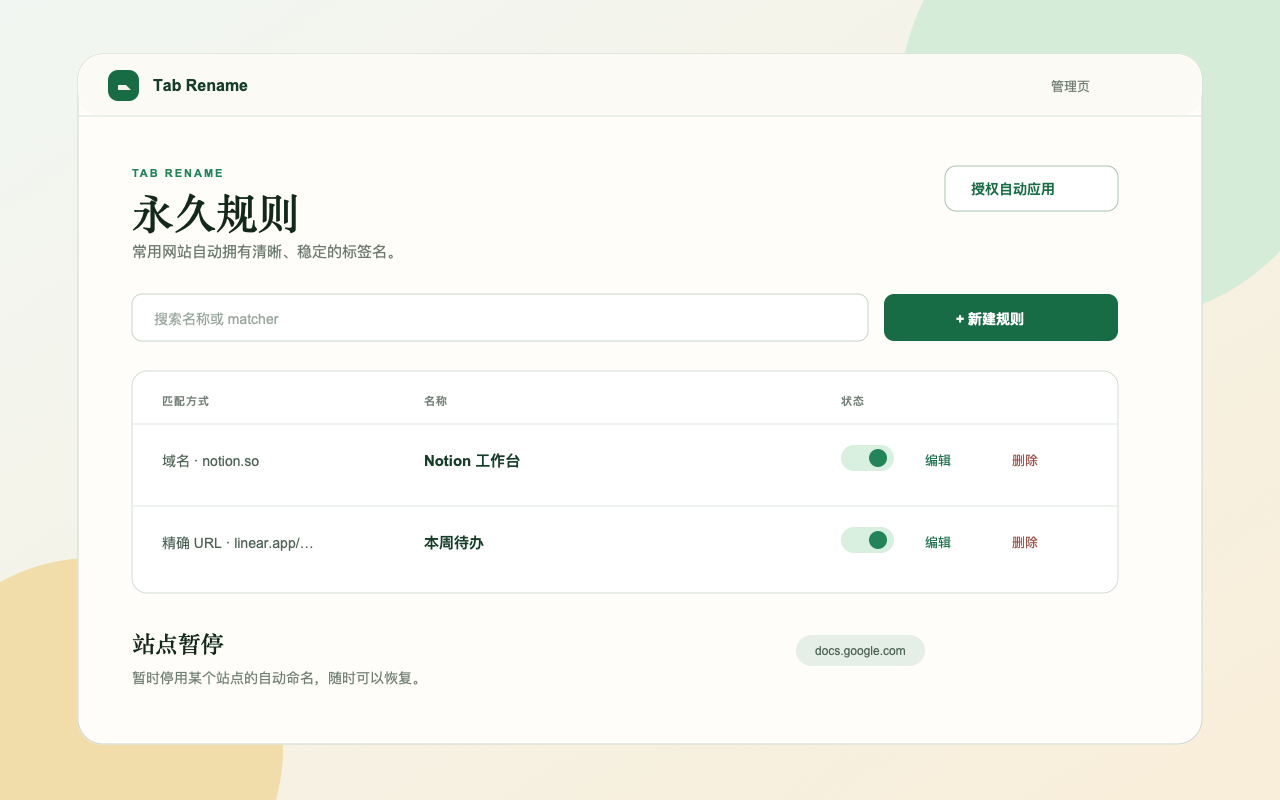
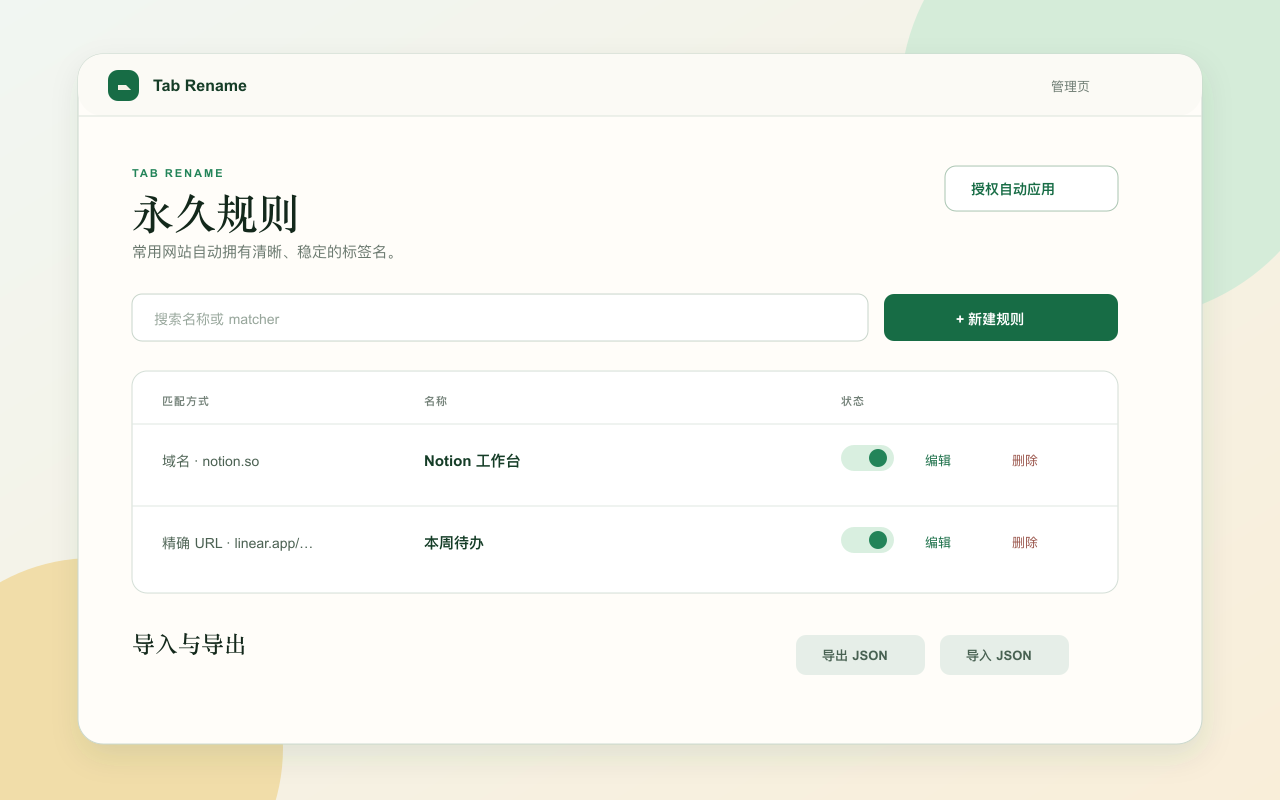
prepare store listing for v0.1.0
Rename to Tab Renamer, rewrite descriptions to highlight three
matching modes and local-first design. Add uninstall survey URL.
Update screenshot-02 to remove stale site-pause section.
Include release zip.

diff --git a/src/background/index.ts b/src/background/index.ts
@@ -32,6 +32,7 @@ async function openRenameOverlay(tabId?: number): Promise<void> {
 chrome.runtime.onInstalled.addListener((details) => {
   chrome.contextMenus.removeAll().then(() => chrome.contextMenus.create({ id: MENU_ID, title: "重命名此标签页…", contexts: ["page"] }));
   if (details.reason === "install") chrome.tabs.create({ url: chrome.runtime.getURL("onboarding.html") });
+  chrome.runtime.setUninstallURL("https://tally.so/r/obJD4x");
   void syncAutomaticContentScript();
 });
 chrome.runtime.onStartup.addListener(() => { void syncAutomaticContentScript(); });

diff --git a/store-assets/STORE_LISTING_zh-CN.md b/store-assets/STORE_LISTING_zh-CN.md
@@ -6,25 +6,38 @@
 
 ## 商品详情
 
-**名称**：Tab Rename
+**名称**：Tab Renamer - 免费标签页重命名工具
 
 **简短说明**（Manifest，少于 132 个字符）
 
-本地优先、可预测的标签页重命名工具
+一键重命名浏览器标签页。支持精确 URL、URL 正则和域名三种匹配规则，数据仅保存在本地。
 
 **详细说明**
 
-Tab Rename 让杂乱的浏览器标签变成一眼就能认出的名字。
+Tab Renamer 帮助你整理杂乱的浏览器标签页——给每个标签一个一目了然的名称。
 
-在普通网页上按快捷键或点击浏览器工具栏图标，即可打开全屏命名界面。你可以只为当前页面命名、让名称跟随当前标签会话，或为精确 URL 和域名创建长期规则。当前页面和当前标签的命名始终优先，规则结果清晰可预测。
+在普通网页上按快捷键或点击工具栏图标，即可在页面内打开重命名界面。根据需求选择保存范围：
 
-- 在当前网页直接打开沉浸式重命名界面，按 Enter 保存、按 Esc 关闭。
-- 支持当前页面、当前标签和永久规则三种保存范围。
-- 为精确 URL 或整个域名建立规则；可搜索、编辑、启停、导入和导出规则。
-- 动态网页、刷新和导航后仍会按适用范围保留名称。
-- 只在本机运行：不发送网络请求、不使用遥测、不上传页面标题、网址或你的设置。
+• 仅当前页面 —— 导航到其他页面后名称自动消失。
+• 当前标签会话 —— 刷新、页内跳转后名称仍保留，关闭标签后清除。
+• 永久规则 —— 保存在本地，每次打开匹配页面时自动应用。
 
-当你明确授权网站访问权限后，永久规则可以在导航和已打开的匹配页面上自动应用。你可以随时在浏览器扩展设置中撤销该权限。
+三种专业匹配模式，让规则精准覆盖你的场景：
+
+• 精确 URL —— 只匹配一个完整地址，适合固定页面。
+• URL 正则 —— 使用 {1} 占位符或正则捕获组匹配动态 URL，并将捕获值自动填入标签名称。
+• 域名 —— 为某个域名下的所有页面统一命名。
+
+规则遵循固定优先级（精确 URL > URL 正则 > 域名），当前页面和标签会话命名始终优先于规则。命名结果清晰可预测，不会出现闪烁。
+
+更多特性：
+- 管理页面集中管理所有规则：搜索、编辑、启用、禁用、删除、导入和导出。
+- 键盘优先设计：Enter 保存、Esc 关闭、快捷键打开。
+- 右键菜单入口，快速操作。
+- 数据只在本机运行——不发送网络请求、不使用遥测、不上传任何数据。
+- 完全免费，无广告，无内购。
+
+当你明确授权网站访问权限后，永久规则可以在导航后自动应用。你可以随时在浏览器扩展设置中撤销该权限。
 
 受 Chrome 平台限制，`chrome://`、Chrome Web Store、新标签页、其他扩展页面等受保护页面无法修改；文件 URL 和 PDF 的可用性取决于浏览器设置与查看器实现。
 
@@ -32,15 +45,15 @@ Tab Rename 让杂乱的浏览器标签变成一眼就能认出的名字。
 
 **单一用途说明**
 
-帮助用户为浏览器标签页设置易识别的名称，并可在用户选择的范围内保存这些名称或匹配规则。
+帮助用户为浏览器标签页设置易识别的名称，通过灵活的 URL 匹配规则在用户选择的范围内保存和应用命名。
 
 **数据使用**
 
-选择“不收集用户数据”（No user data collected）。扩展会在浏览器本地处理当前标签页标题和网址；它们不会传输给开发者或第三方。
+选择"不收集用户数据"（No user data collected）。扩展会在浏览器本地处理当前标签页标题和网址；它们不会传输给开发者或第三方。
 
 **远程代码**
 
-选择“否，我不使用远程代码”（No, I am not using remote code）。扩展不加载、下载或执行远程代码。
+选择"否，我不使用远程代码"（No, I am not using remote code）。扩展不加载、下载或执行远程代码。
 
 **隐私政策 URL**
 
@@ -60,19 +73,19 @@ Tab Rename 让杂乱的浏览器标签变成一眼就能认出的名字。
 | --- | --- |
 | `activeTab` | 仅当用户点击扩展图标、使用快捷键或网页右键入口时，临时访问当前选中的标签页，以显示重命名界面并修改该页标题。 |
 | `scripting` | 仅在用户主动操作当前标签页时，按需注入本地标题守护与重命名界面脚本。不会注入受保护页面。 |
-| `storage` | 在浏览器本地保存永久规则、暂停站点设置及当前标签会话命名；不向任何服务器发送这些数据。 |
-| `contextMenus` | 在普通网页的右键菜单中提供“重命名当前标签页”入口。 |
+| `storage` | 在浏览器本地保存永久规则及当前标签会话命名；不向任何服务器发送这些数据。 |
+| `contextMenus` | 在普通网页的右键菜单中提供"重命名当前标签页"入口。 |
 | `tabs` | 读取标签页标识、网址和标题，以便将本地规则应用到匹配标签、处理导航与关闭标签，并展示规则状态；这些信息不会离开浏览器。 |
-| `http://*/*`（可选） | 仅在用户明确启用“授权自动应用”后使用，使永久规则能在 HTTP 网站导航后自动应用。 |
-| `https://*/*`（可选） | 仅在用户明确启用“授权自动应用”后使用，使永久规则能在 HTTPS 网站导航后自动应用。 |
+| `http://*/*`（可选） | 仅在用户明确启用"授权自动应用"后使用，使永久规则能在 HTTP 网站导航后自动应用。 |
+| `https://*/*`（可选） | 仅在用户明确启用"授权自动应用"后使用，使永久规则能在 HTTPS 网站导航后自动应用。 |
 
 ## 审核员测试说明（Test instructions）
 
 1. 安装扩展后，打开任意普通 `https://example.com` 页面。
-2. 点击工具栏中的 Tab Rename 图标；页面中应出现命名界面。输入“示例标签”，选择“只保留在当前标签”，按 Enter。浏览器标签标题应更新为“示例标签”。
+2. 点击工具栏中的 Tab Renamer 图标；页面中应出现命名界面。输入"示例标签"，选择"只保留在当前标签"，按 Enter。浏览器标签标题应更新为"示例标签"。
 3. 刷新页面；当前标签会话名称应仍然显示。关闭该标签后，该会话命名会自动清除。
-4. 打开扩展的“管理”页，新建一条域名规则：匹配 `example.com`，名称为“Example”。回到 `https://example.com` 并主动打开扩展，规则应可应用。
-5. 在管理页点击“授权自动应用”，在 Chrome 权限提示中允许后，永久规则可在用户已授权网站的导航后自动应用。拒绝授权不会影响手动重命名。
+4. 打开扩展的"管理"页，新建一条域名规则：匹配 `example.com`，名称为"Example"。回到 `https://example.com` 并主动打开扩展，规则应可应用。
+5. 在管理页点击"授权自动应用"，在 Chrome 权限提示中允许后，永久规则可在用户已授权网站的导航后自动应用。拒绝授权不会影响手动重命名。
 6. 打开 `chrome://settings` 或 Chrome Web Store；扩展应提示这是浏览器受保护页面，且不会修改页面。
 
 无需账号、付款方式、测试账号或外部服务。

diff --git a/store-assets/STORE_LISTING_en.md b/store-assets/STORE_LISTING_en.md
@@ -1,28 +1,41 @@
 # Chrome Web Store listing copy (English)
 
-**Name:** Tab Rename  
+**Name:** Tab Renamer - Free Tab Title Editor  
 **Category:** Productivity  
-**Short description:** A local-first, predictable tab renaming tool
+**Short description:** Rename any browser tab instantly. Supports exact URL, URL pattern, and domain matching rules. Local-first, no data collected.
 
 ## Detailed description
 
-Tab Rename turns a crowded browser into tabs you can recognize at a glance.
+Tab Renamer helps you organize a crowded browser by giving each tab a name you can recognize at a glance.
 
-Open the full-page naming interface on any ordinary webpage with a keyboard shortcut or the toolbar icon. Name only the current page, keep a name for the current tab session, or create lasting rules for an exact URL or a domain. Page and tab-session names always take precedence, so the result stays predictable.
+Press a keyboard shortcut or click the toolbar icon on any webpage to open an inline renaming interface. Choose the scope that fits your workflow:
 
-- Rename a tab directly on its page. Press Enter to save and Esc to close.
-- Choose page-only, tab-session, or permanent-rule scope.
-- Create, search, edit, pause, import, and export exact-URL and domain rules.
-- Keep applicable names across dynamic page changes, reloads, and navigation.
-- Local-first by design: no network requests, telemetry, or uploads of page titles, URLs, or settings.
+• Page-only — the name disappears when you navigate away.
+• Tab session — the name sticks through reloads and in-page navigation until you close the tab.
+• Permanent rule — saved locally and reapplied every time a matching page opens.
 
-If you explicitly grant site access, permanent rules can apply automatically after navigation and on already open matching pages. You can revoke that access at any time in browser extension settings.
+Three professional matching modes let you create precise rules:
 
-Chrome-protected pages such as `chrome://`, the Chrome Web Store, new-tab pages, and other extension pages cannot be modified. File URLs and PDFs depend on browser settings and the viewer implementation.
+• Exact URL — targets a single page by its full address.
+• URL pattern — uses {1} placeholders or regex capture groups to match dynamic URLs and insert captured values into the tab name.
+• Domain — applies one name to every page under a hostname.
+
+Rules follow a fixed priority (exact URL > URL pattern > domain), and page or tab-session names always override rules. The result is predictable and never flickers.
+
+More features:
+- Manage all rules in a dedicated options page: search, edit, enable, disable, delete, import, and export.
+- Keyboard-first design: Enter to save, Esc to close, keyboard shortcut to open.
+- Context menu entry for quick access.
+- Data stays on your machine — no network requests, no telemetry, no uploads.
+- Free and open source. No ads, no in-app purchases.
+
+If you grant optional site access, permanent rules apply automatically after navigation. You can revoke that permission at any time.
+
+Chrome-protected pages (chrome://, Web Store, new tab, other extension pages) cannot be modified. File URLs and PDFs depend on browser settings.
 
 ## Privacy fields
 
-- **Single purpose:** Help users assign recognizable names to browser tabs and save those names or matching rules in the user-selected scope.
+- **Single purpose:** Help users assign recognizable names to browser tabs using rules with flexible URL matching, stored locally in the browser.
 - **User data:** No user data collected. Page titles, URLs, rules, and settings are processed and stored only in the browser.
 - **Remote code:** No, this extension does not use remote code.
-- **Permissions:** Use the matching permission table in [`STORE_LISTING_zh-CN.md`](STORE_LISTING_zh-CN.md); translate the justifications verbatim if English review text is required.
+- **Permissions:** See the permission justification table in [`STORE_LISTING_zh-CN.md`](STORE_LISTING_zh-CN.md).
